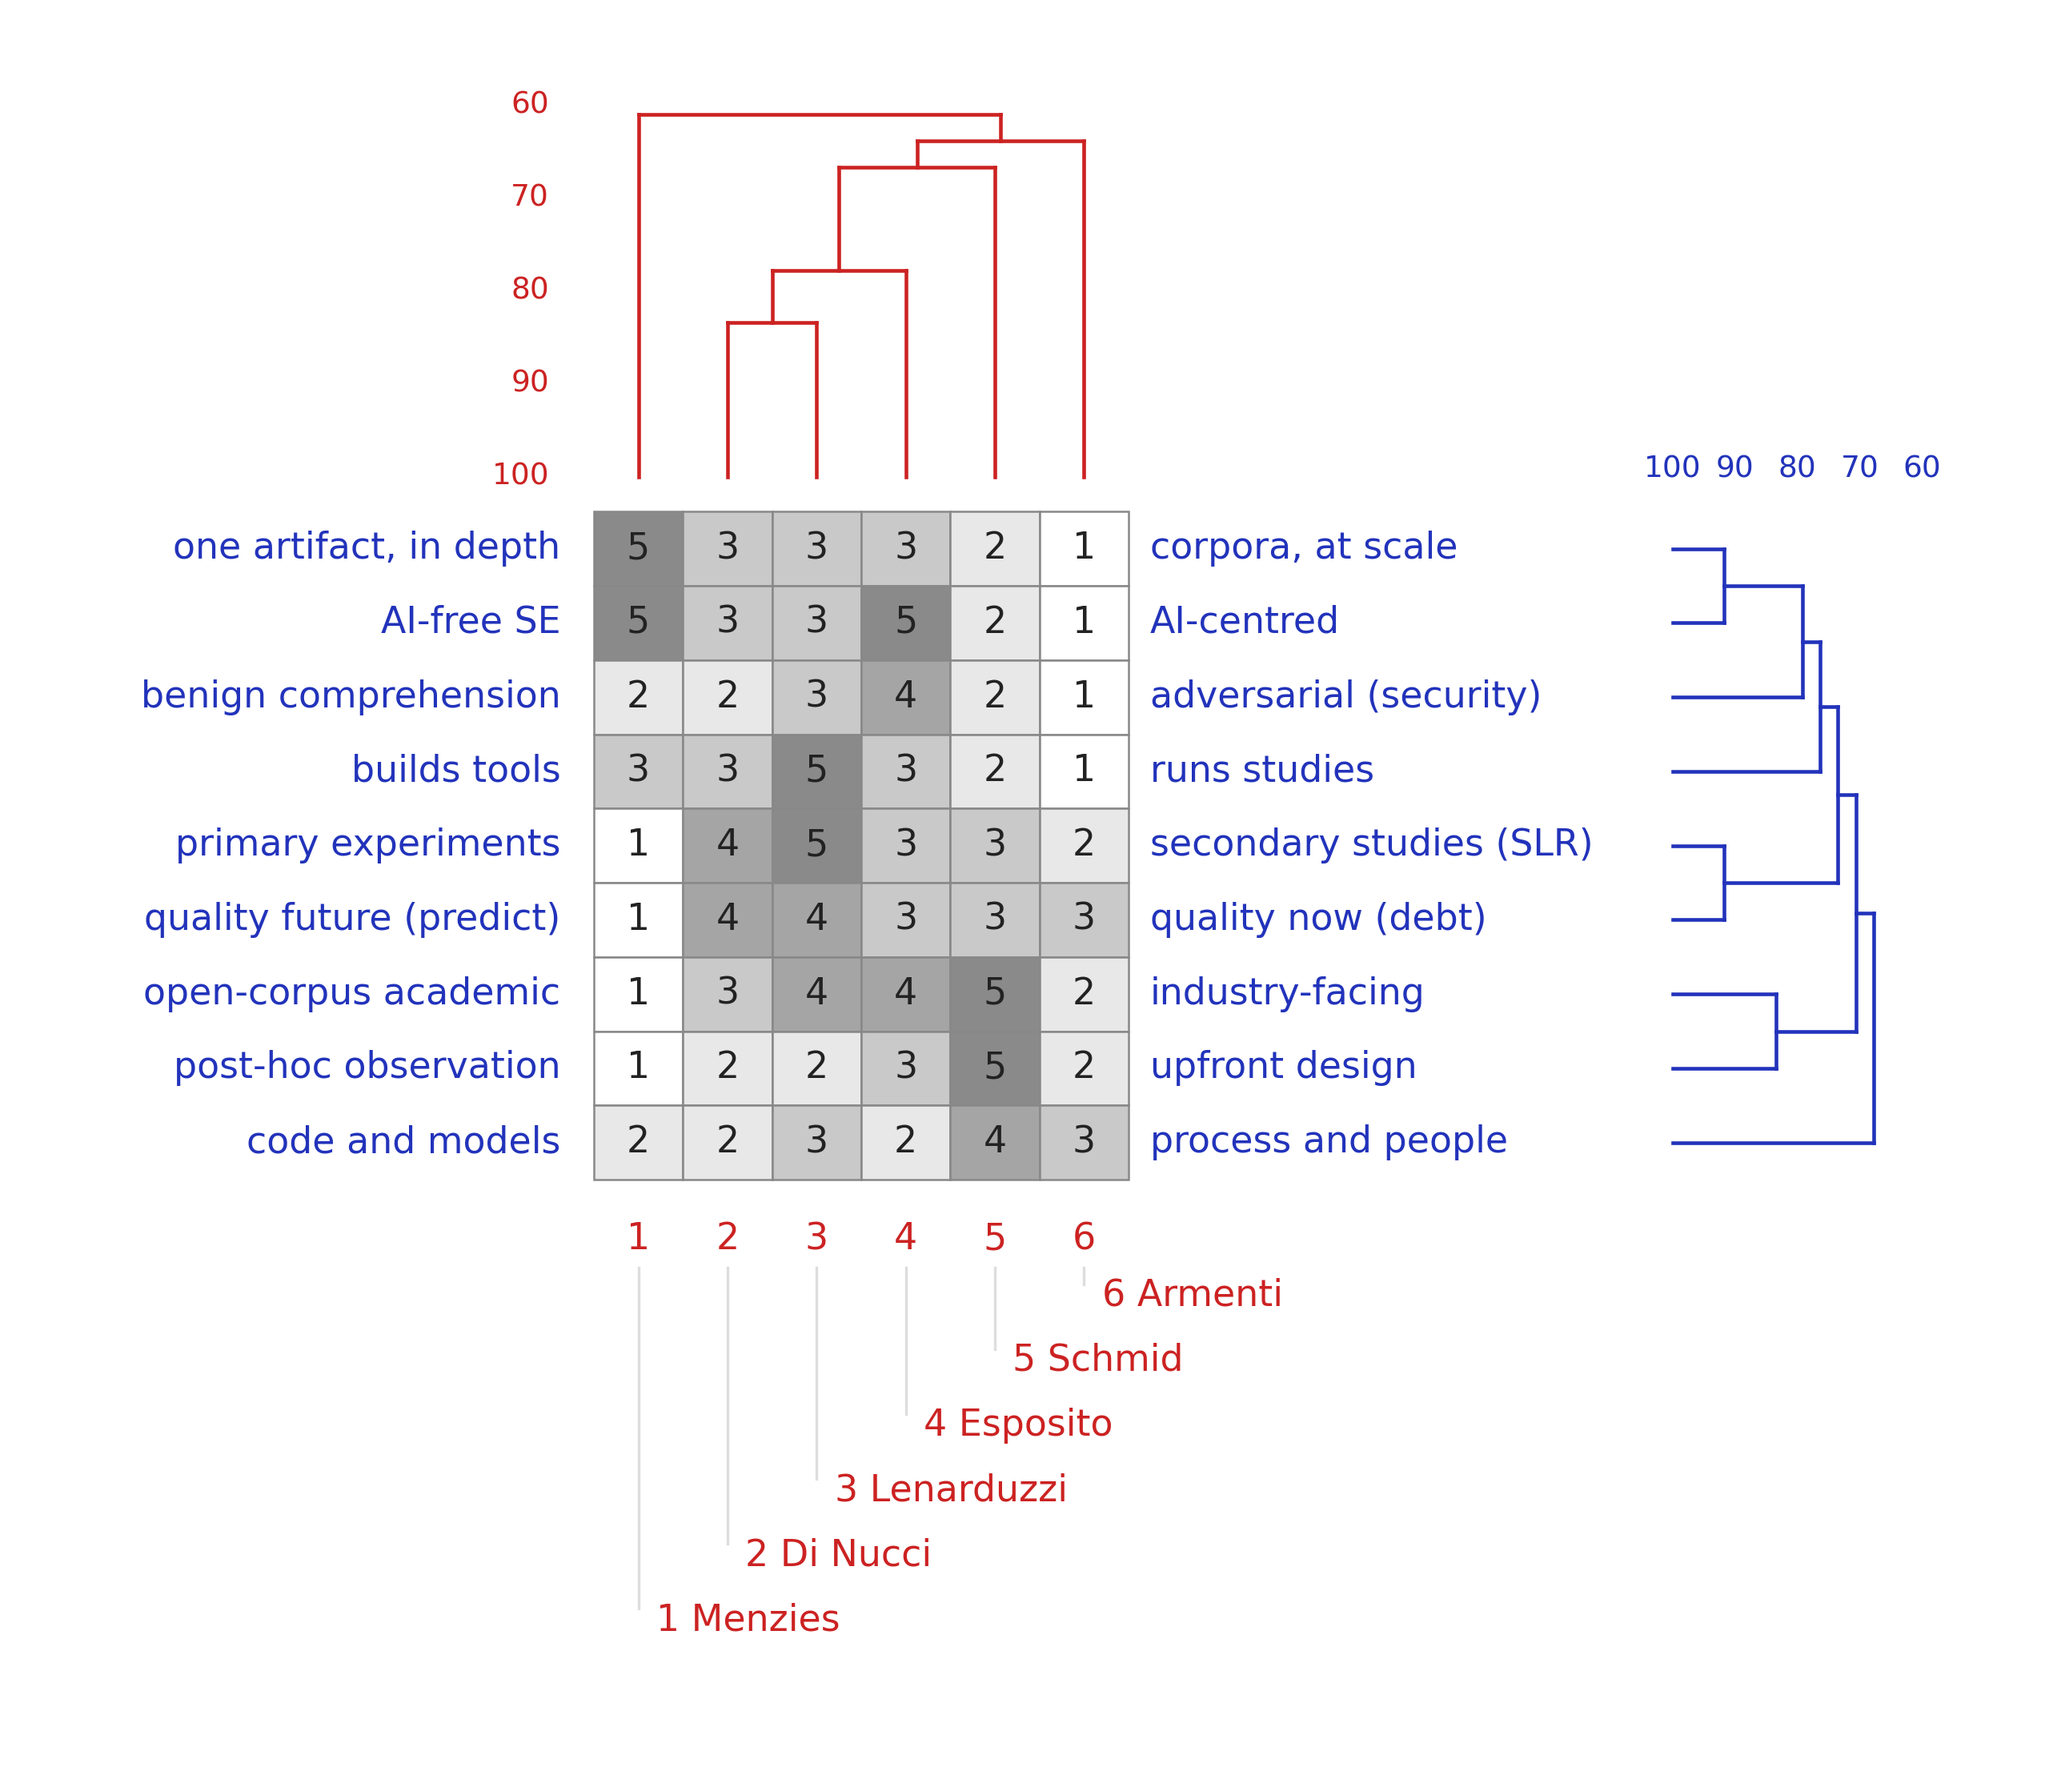
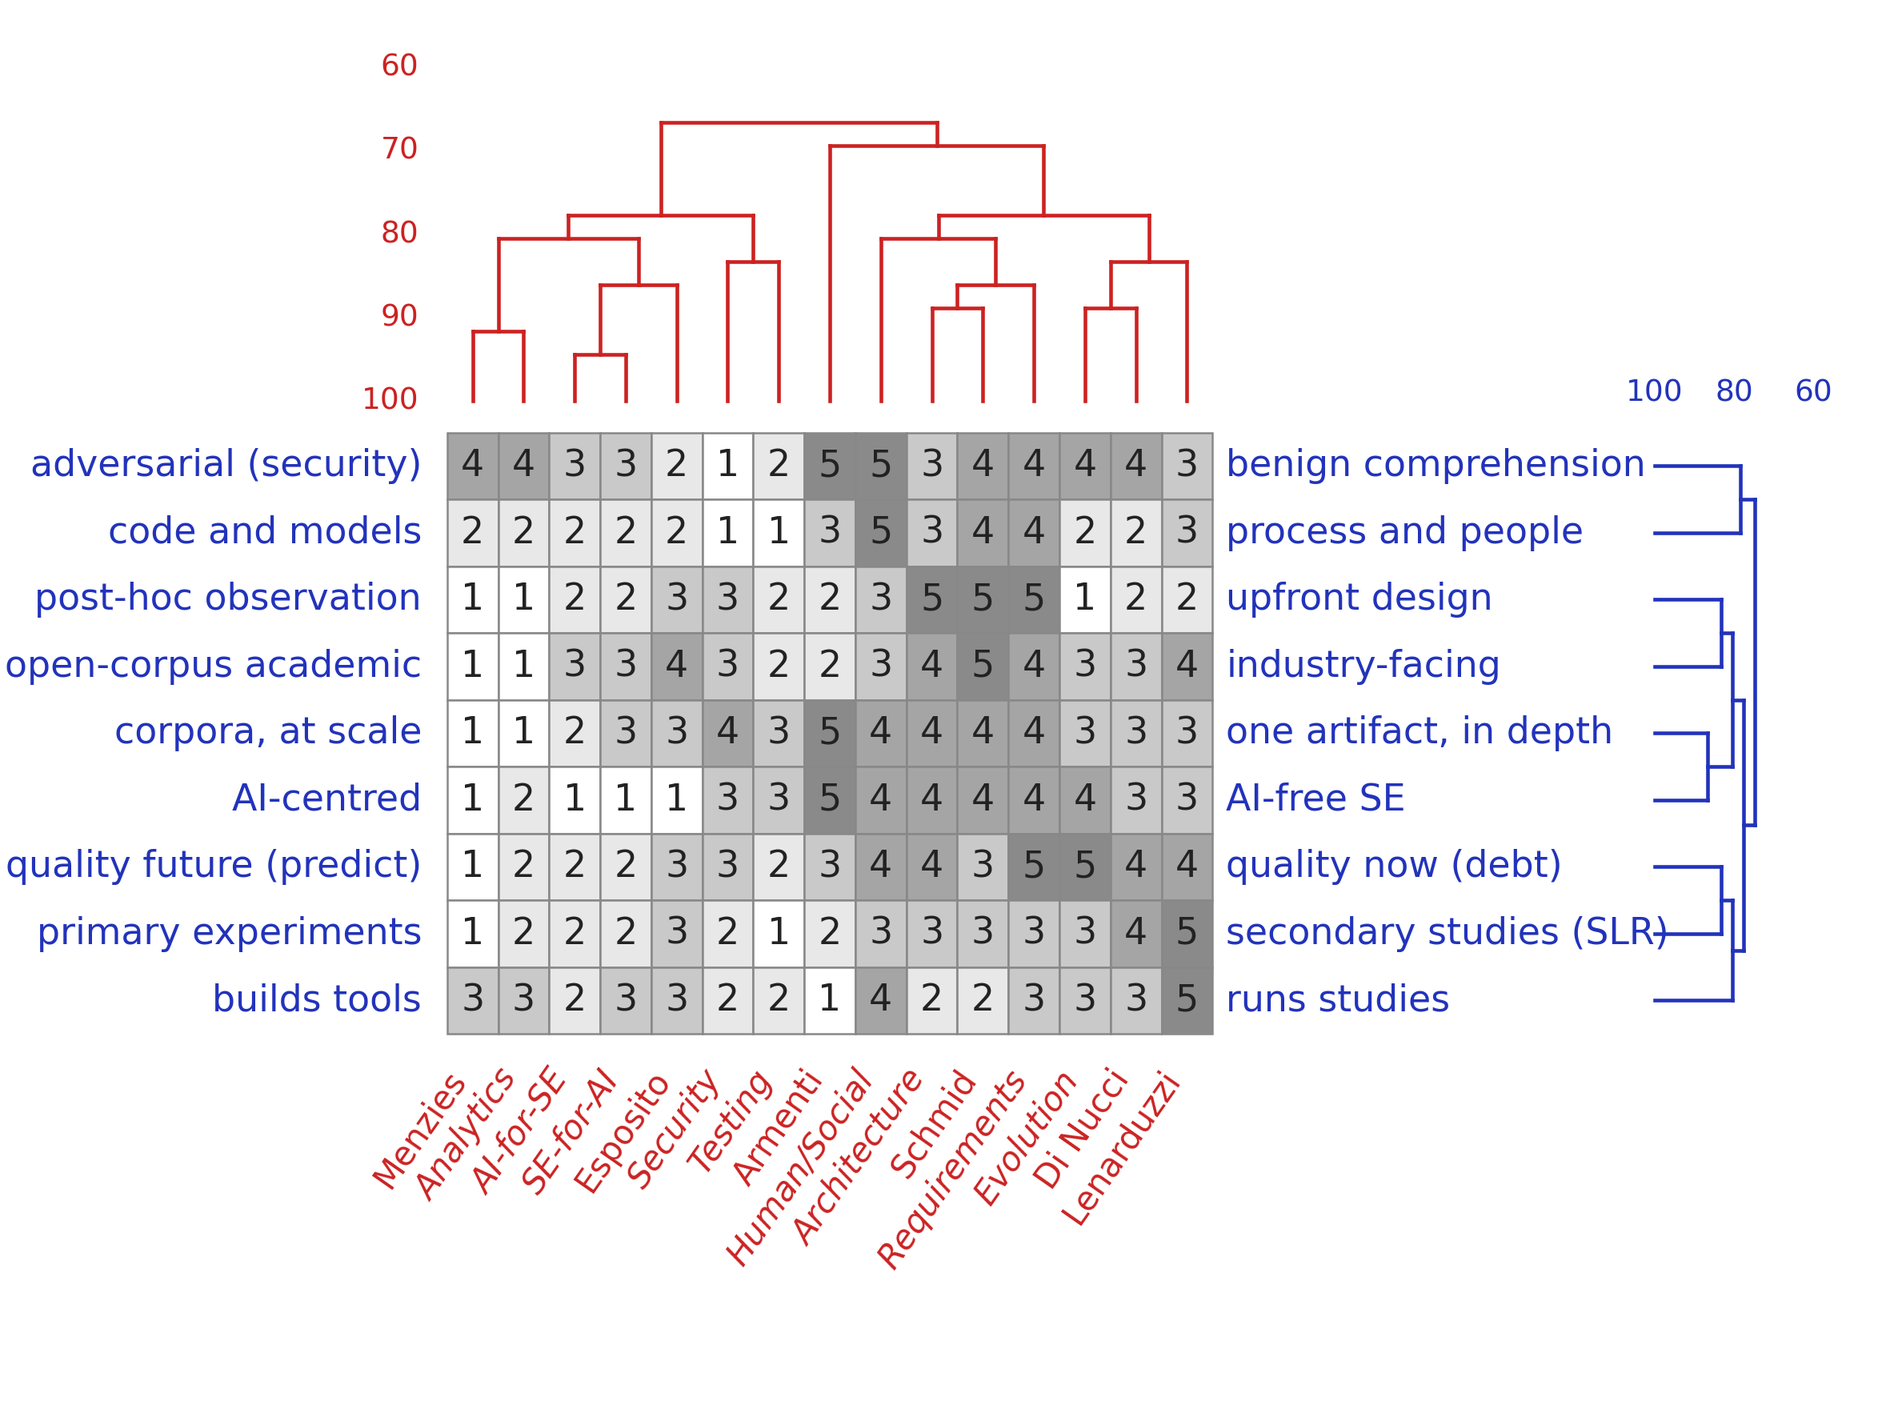
feat: sec 4 maps team onto ICSE'27 areas inside the grid
Sections 2/3 swapped (together before know). Nine areas join
fig/focus_grid.png as italic reference columns, hand-rated
archetypes on the same nine constructs; red tree pairs authors
with nearest areas, prices the security/testing hole. Rotated
labels replace numbered legend; whitespace cropped.

diff --git a/focus.py b/focus.py
@@ -11,18 +11,23 @@ matplotlib.use("Agg")
 import matplotlib.pyplot as plt
 
 ELEMENTS = ["Menzies", "Di Nucci", "Lenarduzzi", "Armenti",
-            "Esposito", "Schmid"]
+            "Esposito", "Schmid",
+            # ICSE'27 research-track areas as reference elements
+            "AI-for-SE", "Analytics", "Architecture", "Security",
+            "Evolution", "Human/Social", "Requirements",
+            "SE-for-AI", "Testing"]
+NTOPIC = 9  # trailing elements drawn italic
 # (left pole [1], right pole [5], ratings per element above)
 CONSTRUCTS = [
-    ("one artifact, in depth",  "corpora, at scale",      [5, 3, 3, 1, 3, 2]),
-    ("quality now (debt)",      "quality future (predict)",[5, 2, 2, 3, 3, 3]),
-    ("upfront design",          "post-hoc observation",    [5, 4, 4, 4, 3, 1]),
-    ("AI-centred",              "AI-free SE",              [1, 3, 3, 5, 1, 4]),
-    ("adversarial (security)",  "benign comprehension",    [4, 4, 3, 5, 2, 4]),
-    ("builds tools",            "runs studies",            [3, 3, 5, 1, 3, 2]),
-    ("secondary studies (SLR)", "primary experiments",     [5, 2, 1, 4, 3, 3]),
-    ("industry-facing",         "open-corpus academic",    [5, 3, 2, 4, 2, 1]),
-    ("process and people",      "code and models",         [4, 4, 3, 3, 4, 2]),
+    ("one artifact, in depth",  "corpora, at scale",      [5,3,3,1,3,2, 4,5,2,2,3,2,2,3,3]),
+    ("quality now (debt)",      "quality future (predict)",[5,2,2,3,3,3, 4,4,2,3,1,2,1,4,4]),
+    ("upfront design",          "post-hoc observation",    [5,4,4,4,3,1, 4,5,1,3,5,3,1,4,4]),
+    ("AI-centred",              "AI-free SE",              [1,3,3,5,1,4, 1,2,4,3,4,4,4,1,3]),
+    ("adversarial (security)",  "benign comprehension",    [4,4,3,5,2,4, 3,4,3,1,4,5,4,3,2]),
+    ("builds tools",            "runs studies",            [3,3,5,1,3,2, 2,3,2,2,3,4,3,3,2]),
+    ("secondary studies (SLR)", "primary experiments",     [5,2,1,4,3,3, 4,4,3,4,3,3,3,4,5]),
+    ("industry-facing",         "open-corpus academic",    [5,3,2,4,2,1, 3,5,2,3,3,3,2,3,4]),
+    ("process and people",      "code and models",         [4,4,3,3,4,2, 4,4,3,5,4,1,2,4,5]),
 ]
 NE, NC, SPAN = len(ELEMENTS), len(CONSTRUCTS), 4  # rating span 1..5
 
@@ -127,10 +132,10 @@ cmerges = single_link(corder, cdist, SPAN * NE)
 BG, RED, BLUE = "#ffffff", "#cc2222", "#2233bb"
 GREYS = {1: "#ffffff", 2: "#e8e8e8", 3: "#c9c9c9", 4: "#a5a5a5",
          5: "#8a8a8a"}
-CW, CH = 0.50, 0.32          # cell size
+CW, CH = 0.45, 0.32          # cell size
 X0, Y0 = 3.1, 1.2           # matrix lower-left
 TREE_H, TREE_W = 1.6, 1.4   # dendrogram depth
-fig, ax = plt.subplots(figsize=(8.6, 4.4 + 0.34 * NC))
+fig, ax = plt.subplots(figsize=(9.6, 4.6 + 0.34 * NC))
 fig.patch.set_facecolor(BG)
 ax.set_facecolor(BG)
 ax.set_aspect("auto")
@@ -151,19 +156,12 @@ for r in range(NC):
     ax.text(X0 + NE * CW + 0.12, y + CH / 2, RPOLE[r], ha="left",
             va="center", fontsize=11, color=BLUE)
 
-# red element labels: numbered column footers then legend list
-for c, name in enumerate(ELAB):
+# red element labels, rotated; topics italic
+for c, ei in enumerate(eorder):
     x = X0 + c * CW + CW / 2
-    ax.text(x, Y0 - 0.18, str(c + 1), ha="center", va="top",
-            fontsize=11, color=RED)
-for k, name in enumerate(reversed(ELAB)):
-    i = NE - 1 - k
-    x = X0 + i * CW + CW / 2
-    yl = Y0 - 0.50 - k * 0.28
-    ax.plot([x, x], [Y0 - 0.38, yl + 0.05], color="#ddd", lw=0.8,
-            zorder=0)
-    ax.text(x + 0.1, yl, f"{i + 1} {name}", ha="left",
-            va="center", fontsize=11, color=RED)
+    style = "italic" if ei >= NE - NTOPIC else "normal"
+    ax.text(x, Y0 - 0.14, ELEMENTS[ei], rotation=55, ha="right",
+            va="top", fontsize=10, color=RED, style=style)
 
 # --- dendrogram helpers: draw merges as right-angle trees ---
 def draw_tree(merges, leaf_pos, axis, base, depth, color, scale_lo):
@@ -190,7 +188,7 @@ etop = top + 0.15
 draw_tree(emerges,
           lambda i: X0 + eorder.index(i) * CW + CW / 2,
           "top", etop, TREE_H, RED, 60)
-cright = X0 + NE * CW + 3.05
+cright = X0 + NE * CW + 3.9
 draw_tree(cmerges,
           lambda i: top - (corder.index(i) + 1) * CH + CH / 2,
           "right", cright, TREE_W, BLUE, 60)
@@ -200,12 +198,13 @@ for pct in (100, 90, 80, 70, 60):
     y = etop + (100 - pct) / 40 * TREE_H
     ax.text(X0 - 0.25, y, str(pct), ha="right", va="center",
             fontsize=9, color=RED)
-    x = cright + (100 - pct) / 40 * TREE_W
-    ax.text(x, top + 0.12, str(pct), ha="center", va="bottom",
-            fontsize=9, color=BLUE)
+    if pct in (100, 80, 60):
+        x = cright + (100 - pct) / 40 * TREE_W
+        ax.text(x, top + 0.12, str(pct), ha="center", va="bottom",
+                fontsize=9, color=BLUE)
 
 ax.set_xlim(0, cright + TREE_W + 0.6)
-ax.set_ylim(Y0 - 0.5 - NE * 0.28 - 0.3, etop + TREE_H + 0.3)
-plt.tight_layout()
-plt.savefig("fig/focus_grid.png", dpi=300, facecolor=BG)
+ax.set_ylim(Y0 - 1.85, etop + TREE_H + 0.3)
+plt.savefig("fig/focus_grid.png", dpi=300, facecolor=BG,
+            bbox_inches="tight", pad_inches=0.02)
 print("wrote fig/focus_grid.png")

diff --git a/sec0/know.tex b/sec0/know.tex
@@ -33,23 +33,25 @@ few papers.}
 
 \begin{figure}[t]
 \includegraphics[width=\linewidth]{fig/focus_grid}
-\caption{Repertory grid of six authors.
-Grey cells score each author from the left pole (1) to the right pole
-(5) of each construct; trees join rows (and columns) by percentage
-match; regenerate via {\em make focus}.}
+\caption{Repertory grid of six authors (upright columns)
+plus the nine ICSE'27 areas as reference elements (italic columns; see
+\S\ref{sec:map}).
+Grey cells score each column from the left pole (1) to the right pole
+(5) of each construct; trees join neighbors by percentage match;
+regenerate via {\em make focus}.}
 \label{fig:focus}
 \end{figure}
 
 The grid rewards three readings.
 Firstly, near-synonyms: construct rows that merge early name one local
 dimension twice.
-In this team, working at corpus scale and being AI-centred co-travel
-(rows 1--2), as do primary experimentation and future-facing
+In this team, working at corpus scale co-travels with being
+AI-centred, as does primary experimentation with future-facing
 prediction.
 Secondly, birds of a feather: Lenarduzzi and Di Nucci match at around
 90\%, a tight quality-and-evolution core that anchors the team.
-Thirdly, complements: Schmid and Armenti join the tree last, so
-upfront design and single-artifact comprehension are scarce skills
+Thirdly, complements: Schmid and Armenti lie farthest from that core,
+so upfront design and single-artifact comprehension are scarce skills
 here, present in exactly one member each.
 Hence the grid is at once a division of labor and a price list of the
 team's blind spots, computed before reading a single outside paper.

diff --git a/sec0/map.tex b/sec0/map.tex
@@ -1,0 +1,27 @@
+\section{Mapping the Team to the Field}
+\label{sec:map}
+
+Newell's third and fourth questions ask where a team could work and
+what important issues live there.
+For a working list of "where", we borrow the nine areas of the ICSE'27
+research track: AI for SE; analytics; architecture and design;
+dependability and security; evolution; human and social aspects;
+requirements and modeling; SE for AI; and testing and analysis.
+
+Rather than tabulate those areas separately, we score each area on the
+same nine constructs as the people and add them to
+Figure~\ref{fig:focus} as reference elements (the italic columns).
+The red tree then answers a question a topic list cannot: who stands
+nearest which area.
+Menzies clusters with analytics; Esposito with AI for SE and SE for
+AI; Armenti with human and social aspects; Schmid with architecture
+and requirements; Di Nucci and Lenarduzzi flank evolution.
+Hence question three answers itself: the team's natural territories
+are the areas already adjacent to one of its members.
+
+The far columns matter as much as the near ones.
+No author sits within 85\% of security or testing; those two areas
+cling to each other, not to a person.
+That is the priced blind spot of this team: papers there would be
+written against the grain, or with a new collaborator who brings that
+column closer.

diff --git a/paper0.tex b/paper0.tex
@@ -41,8 +41,9 @@
 \maketitle
 
 \input{sec0/intro}
-\input{sec0/know}
 \input{sec0/together}
+\input{sec0/know}
+\input{sec0/map}
 
 \bibliographystyle{ACM-Reference-Format}
 \bibliography{refs}
